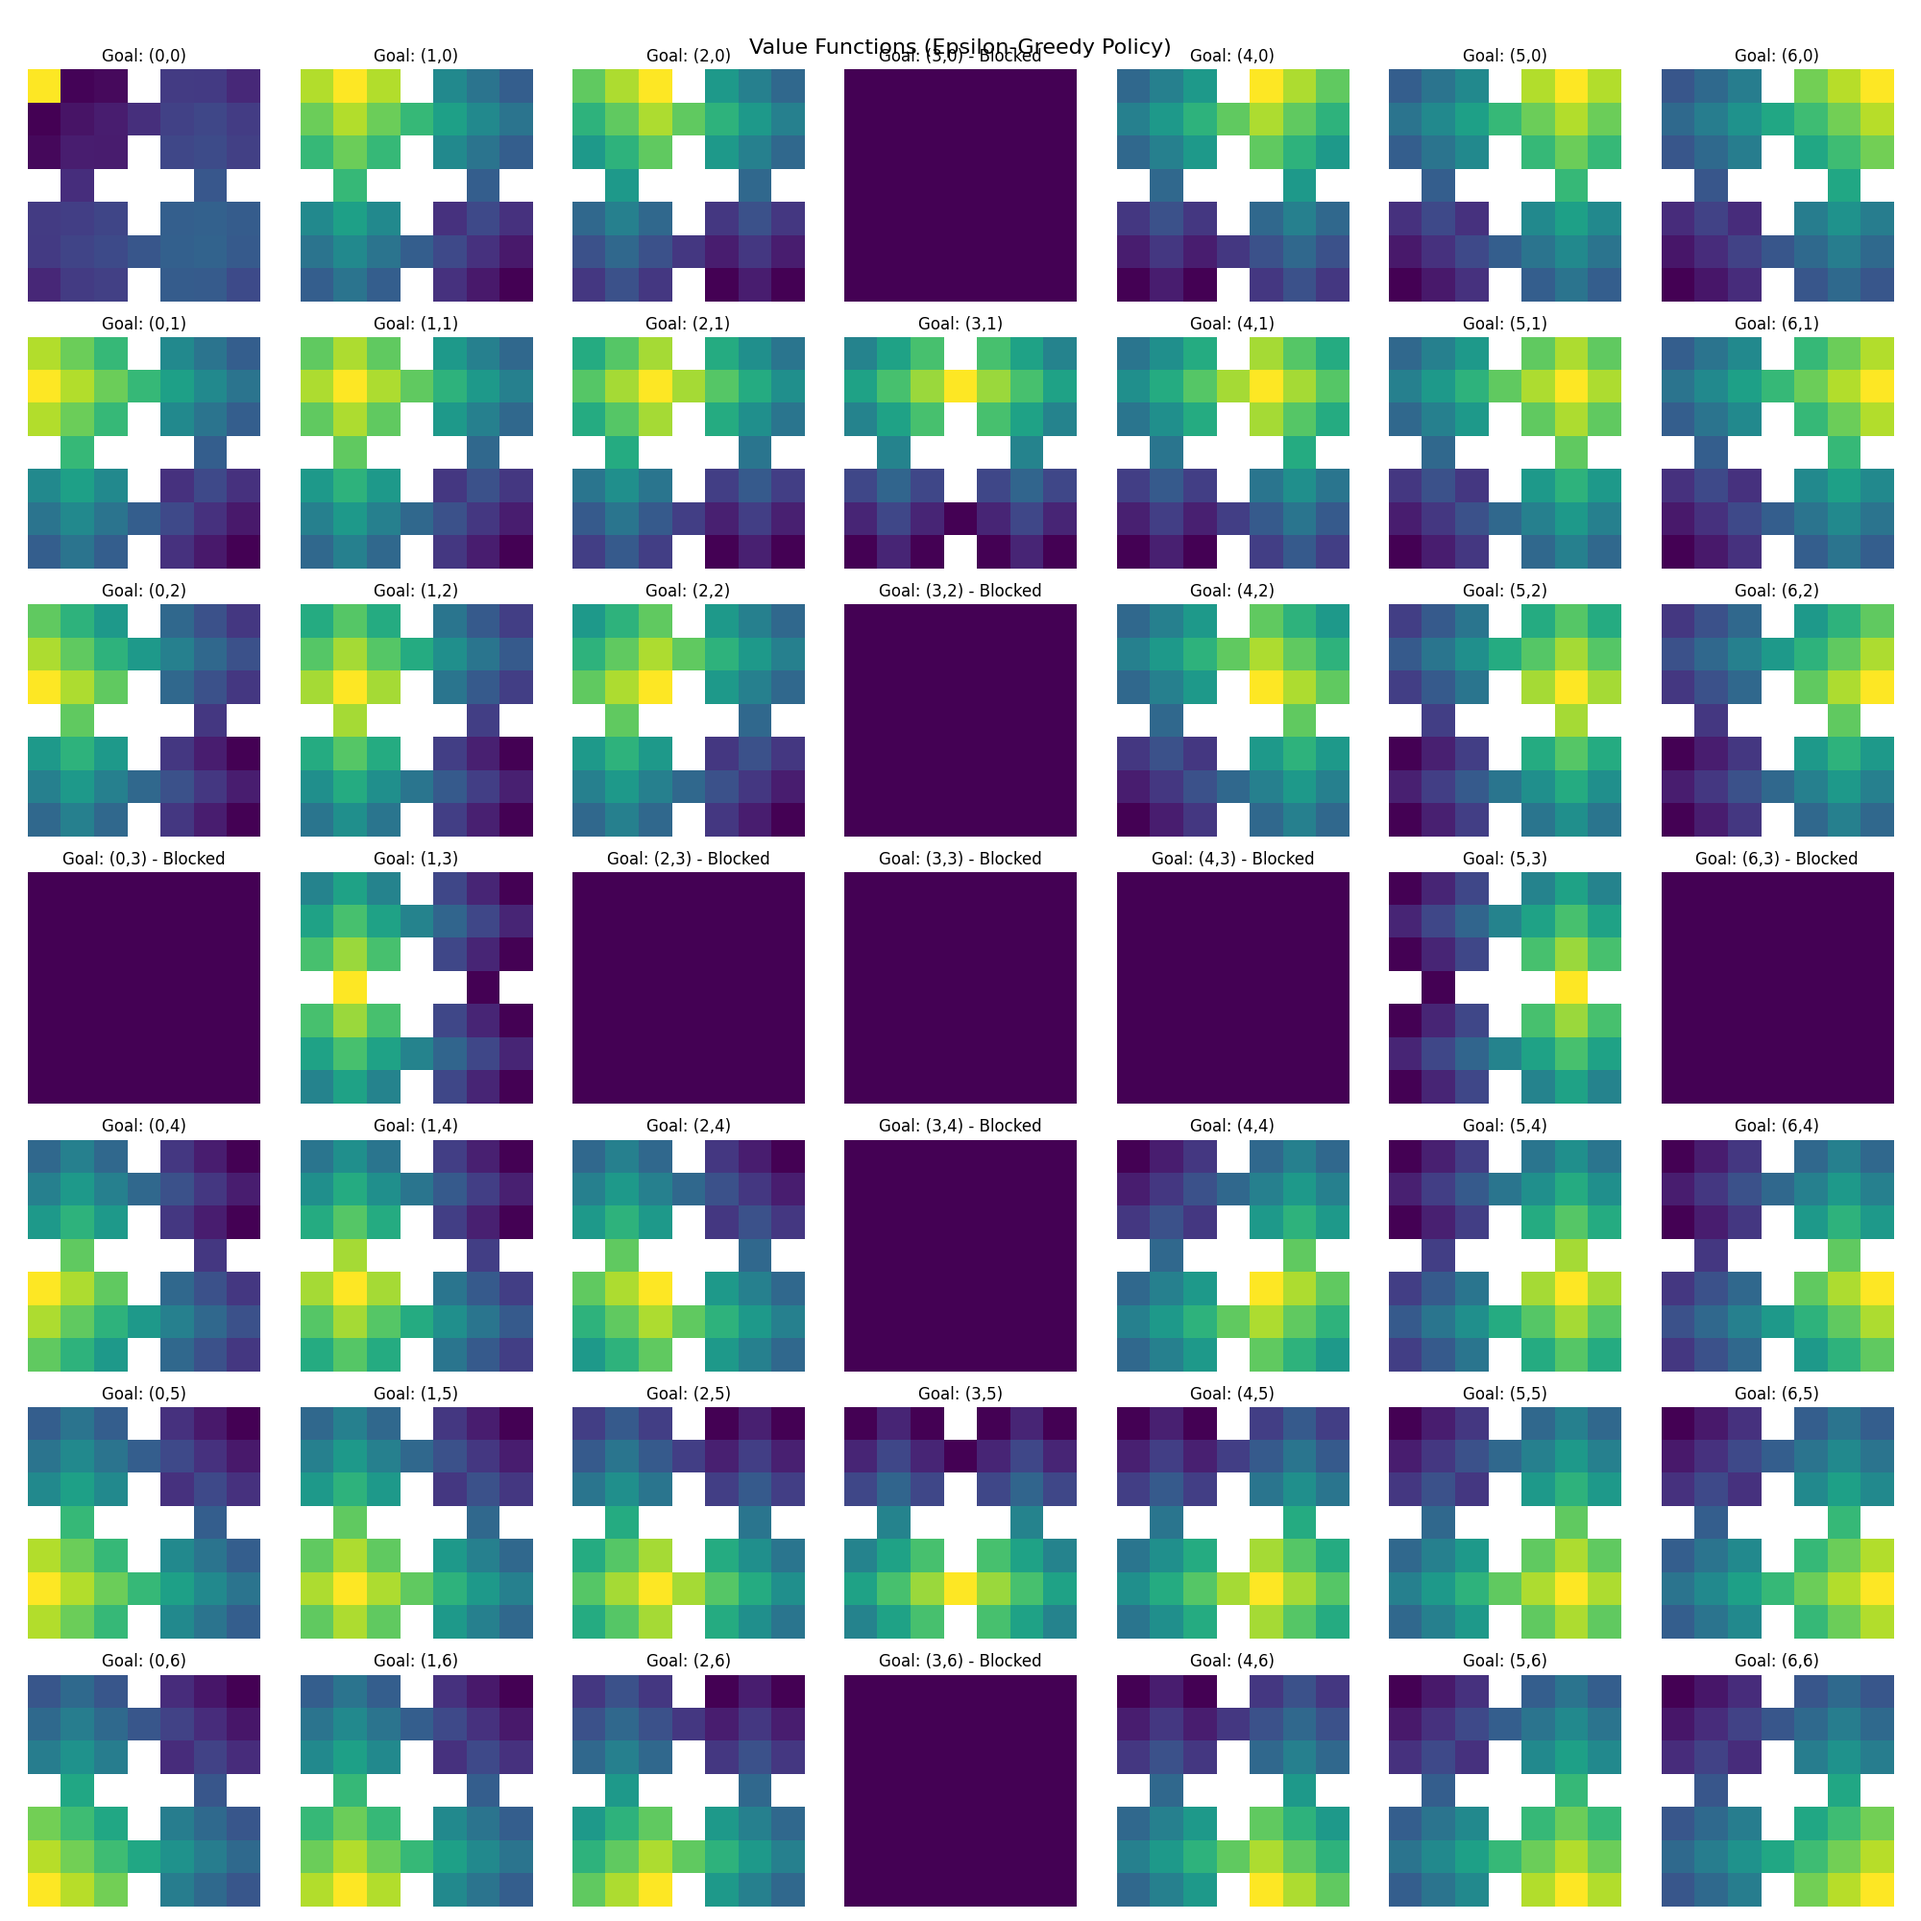
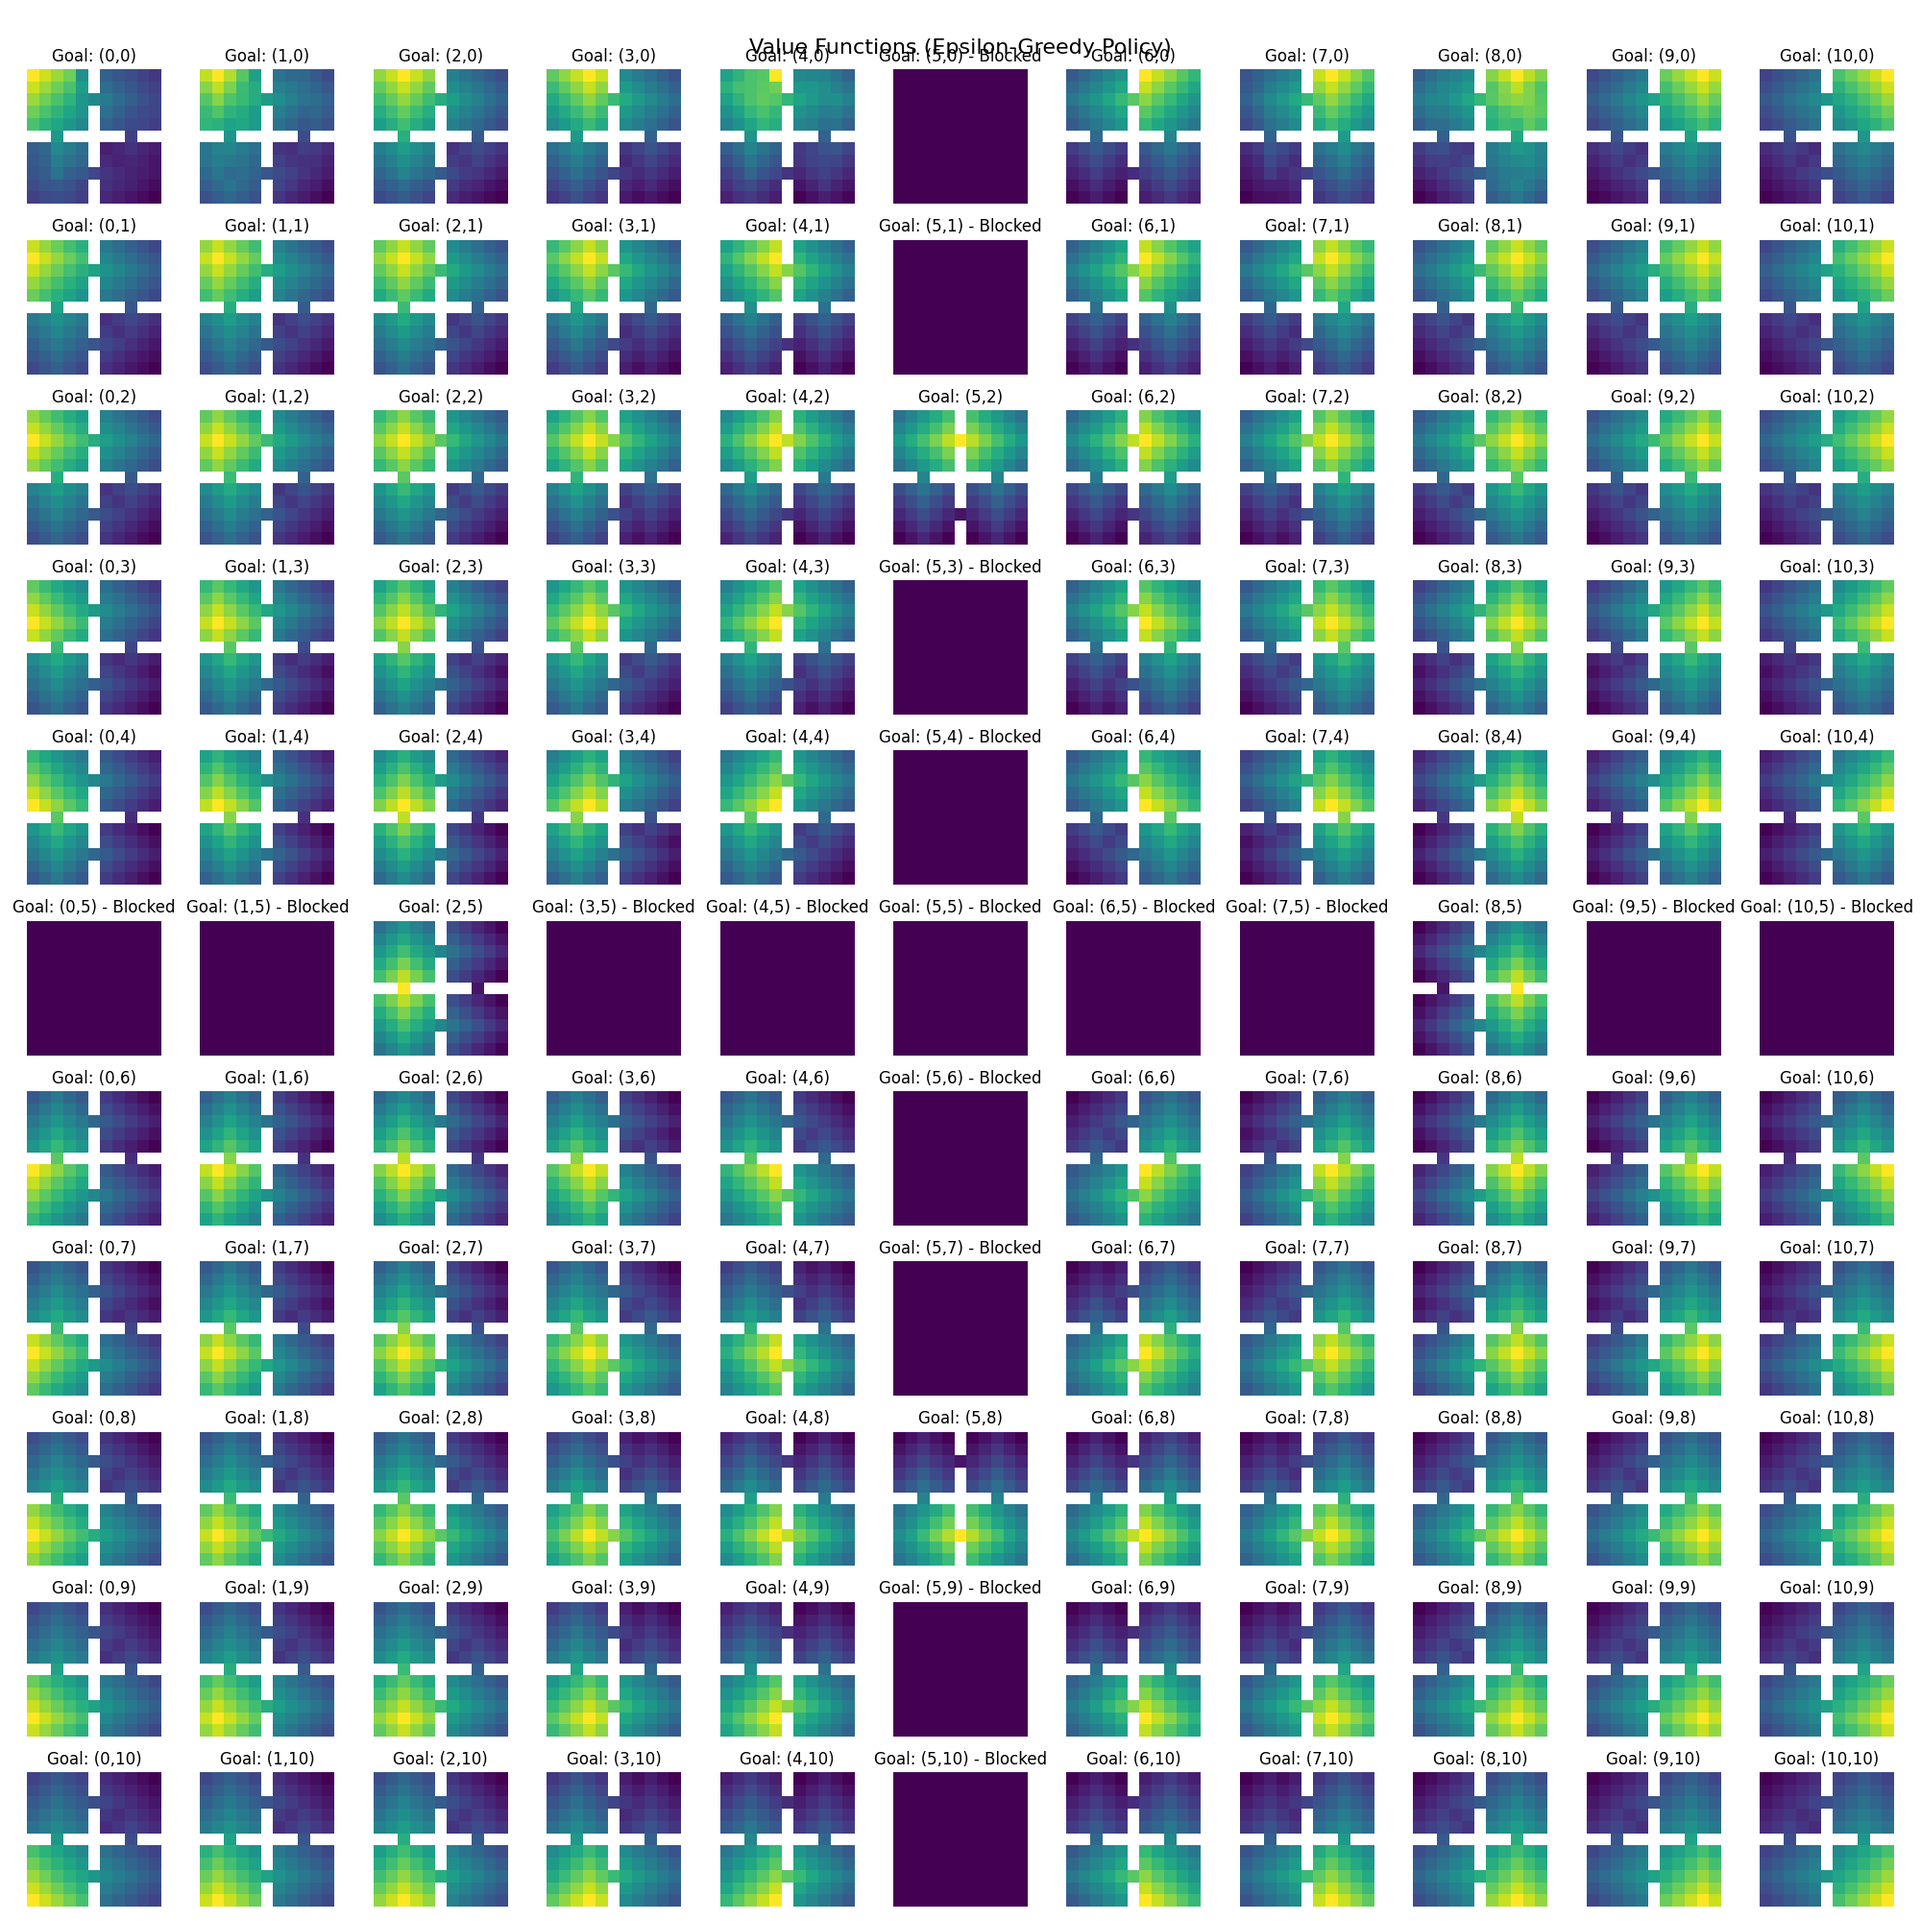
newest

diff --git a/SRGoalSlice.py b/SRGoalSlice.py
@@ -11,7 +11,7 @@ from sklearn.decomposition import PCA #For grid cell plotting
 cmap = plt.cm.viridis
 cmap.set_bad(color='white')
 
-grid_size = 7
+grid_size = 11
 pattern = "four_rooms"
 env = SimpleGrid(grid_size, block_pattern=pattern, obs_mode="index")
 env.reset(agent_pos=[0, 0], goal_pos=[0, grid_size - 1])
@@ -21,7 +21,7 @@ print("Four Rooms Arena: ")
 
 # ------------------ Recording Functions --------------------------------
 def record_agent_trajectories(env, agent, episodes, episode_length, epsilon, filename):
-    fig, ax = plt.subplots(figsize=(7, 7))
+    fig, ax = plt.subplots(figsize=(grid_size, grid_size))
     trajectories = []
 
     for episode in range(episodes):
@@ -171,9 +171,8 @@ def plot_wvf(agent, env):
 # Plotting the reward matrix slices for easy viewing
 def plot_goal_matrices(goals, env):
     state_size = goals.shape[0]
-    grid_size = 7  # Since we know it's a 7x7 grid
 
-    plt.figure(figsize=(20, 20))
+    plt.figure(figsize=(30, 30))
     
     for slice_index in range(state_size):
         ax = plt.subplot(grid_size, grid_size, slice_index + 1)
@@ -240,7 +239,7 @@ class TabularSuccessorAgent(object):
         self.learning_rate = learning_rate
         self.gamma = gamma
         self.goal_size = goal_size
-        self.goals = np.zeros((state_size, 7, 7), dtype=int)
+        self.goals = np.zeros((state_size, grid_size, grid_size), dtype=int)
     
     # Computes action values by combining the SR with the current reward prediction (w) or a specified goal
     def Q_estimates(self, state, goal=None):
@@ -264,10 +263,10 @@ class TabularSuccessorAgent(object):
     # TODO     # Not sure why passing in a goal size doesnt work 
     # ----------------------------------------------------------------
     def generate_goal_matrices(self, state_size, goal_size):
-        goal_size = 40
-        self.goals = np.zeros((state_size, 7, 7), dtype=int)
+        goal_size = 104 # this is 40 for grid size = 7 and 104 for grid_size = 11
+        self.goals = np.zeros((state_size, grid_size, grid_size), dtype=int)
         
-        available_positions = [(x, y) for x in range(7) for y in range(7) if [x, y] not in env.blocks]
+        available_positions = [(x, y) for x in range(grid_size) for y in range(grid_size) if [x, y] not in env.blocks]
         for slice_index in range(min(state_size, goal_size)):
             if slice_index < len(available_positions):
                 x, y = available_positions[slice_index]
@@ -314,12 +313,16 @@ class TabularSuccessorAgent(object):
 # --------------------Supporting Functions---------
 
 # assists with finding positions for random agent initialization.
+# to ensure uniform random distribution, first find the valid states, then randomly choose from them
 def random_valid_position(env):
-    while True:
-        x = np.random.randint(0, env.grid_size)
-        y = np.random.randint(0, env.grid_size)
-        if [x, y] not in env.blocks:
-            return [x, y]
+    # Create a list of all valid positions
+    valid_positions = [
+        [x, y] for x in range(env.grid_size) for y in range(env.grid_size)
+        if [x, y] not in env.blocks
+    ]
+    
+    # Randomly select a position from the list of valid positions
+    return valid_positions[np.random.randint(len(valid_positions))]
 
 # assists with choosing a random goal slice for the agent to learn off of
 def get_goal_sequence(total_episodes, goal_size):
@@ -344,13 +347,13 @@ def get_goal_sequence(total_episodes, goal_size):
 
 # --------------------Training and Testing Parameters --------------------------------
 # parameters for training
-train_episode_length = 100
-test_episode_length = 100
-episodes = 100000
+train_episode_length = 40
+test_episode_length = 40
+episodes = 500000
 gamma = 0.95
 lr = 5e-2
 
-initial_train_epsilon = 0.9
+initial_train_epsilon = 0.6
 epsilon_decay = 0.995
 
 test_epsilon = 0.01
@@ -384,72 +387,72 @@ random_policy_test_experiences = []
 random_policy_test_lengths = []
 random_policy_td_errors = []
 
-# Training loop for random policy
-for goal_index in goals_with_targets:
-    goal_episodes = episodes_per_goal + (1 if remaining_episodes > 0 else 0)
-    remaining_episodes = max(0, remaining_episodes - 1)
+# # Training loop for random policy
+# for goal_index in goals_with_targets:
+#     goal_episodes = episodes_per_goal + (1 if remaining_episodes > 0 else 0)
+#     remaining_episodes = max(0, remaining_episodes - 1)
     
-    print(f"\nTraining on goal slice {goal_index} with random policy for {goal_episodes} episodes")
+#     print(f"\nTraining on goal slice {goal_index} with random policy for {goal_episodes} episodes")
     
-    epsilon = 1  # Set epsilon to 1 for random policy
+#     epsilon = 1  # Set epsilon to 1 for random policy
     
-    for episode in tqdm(range(goal_episodes), desc=f"Training goal slice {goal_index} (Random Policy)"):
-        # training phase
-        # agent_start = random_valid_position(env)
-        agent_start = [0,0]
-        goal_pos = env.state_to_point(np.where(agent.goals[goal_index] == 1)[0][0])
+#     for episode in tqdm(range(goal_episodes), desc=f"Training goal slice {goal_index} (Random Policy)"):
+#         # training phase
+#         # agent_start = random_valid_position(env)
+#         agent_start = [0,0]
+#         goal_pos = env.state_to_point(np.where(agent.goals[goal_index] == 1)[0][0])
 
-        env.reset(agent_pos=agent_start, goal_pos=goal_pos)
-        state = env.observation
-        episodic_error = []
+#         env.reset(agent_pos=agent_start, goal_pos=goal_pos)
+#         state = env.observation
+#         episodic_error = []
 
-        for j in range(train_episode_length):
-            action = agent.sample_action(state, epsilon=epsilon)
-            reward = env.step(action)
-            next_state = env.observation
-            done = env.done
-            random_policy_experiences.append([state, action, next_state, reward])
-            experience = [state, action, next_state, reward, done]
+#         for j in range(train_episode_length):
+#             action = agent.sample_action(state, epsilon=epsilon)
+#             reward = env.step(action)
+#             next_state = env.observation
+#             done = env.done
+#             random_policy_experiences.append([state, action, next_state, reward])
+#             experience = [state, action, next_state, reward, done]
             
-            td_sr = agent.update_sr(experience)
-            td_w = agent.update_w(experience)
-            episodic_error.append(np.mean(np.abs(td_sr)))
+#             td_sr = agent.update_sr(experience)
+#             td_w = agent.update_w(experience)
+#             episodic_error.append(np.mean(np.abs(td_sr)))
             
-            state = next_state
-            if done:
-                break
+#             state = next_state
+#             if done:
+#                 break
         
-        random_policy_td_errors.append(np.mean(episodic_error))
+#         random_policy_td_errors.append(np.mean(episodic_error))
         
-        # Test phase
-        agent_start = random_valid_position(env)
-        env.reset(agent_pos=agent_start, goal_pos=goal_pos)
-        state = env.observation
-        for j in range(test_episode_length):
-            action = agent.sample_action(state, epsilon=test_epsilon)
-            reward = env.step(action)
-            state_next = env.observation
-            random_policy_test_experiences.append([state, action, state_next, reward])
-            state = state_next
-            if env.done:
-                break
-        random_policy_test_lengths.append(j)
+#         # Test phase
+#         agent_start = random_valid_position(env)
+#         env.reset(agent_pos=agent_start, goal_pos=goal_pos)
+#         state = env.observation
+#         for j in range(test_episode_length):
+#             action = agent.sample_action(state, epsilon=test_epsilon)
+#             reward = env.step(action)
+#             state_next = env.observation
+#             random_policy_test_experiences.append([state, action, state_next, reward])
+#             state = state_next
+#             if env.done:
+#                 break
+#         random_policy_test_lengths.append(j)
 
-    print("\nRandom policy training completed.")
-
-
-# After random policy training
-random_policy_agent = agent
+#     print("\nRandom policy training completed.")
 
 
-# Plot grid cells for random policy agent
-plot_grid_cells(random_policy_agent, env, "Grid Cells (Random Policy)")
+# # After random policy training
+# random_policy_agent = agent
 
-# Plot value functions for random policy agent
-plot_value_functions(random_policy_agent, env, "Value Functions (Random Policy)")
 
-# Plot raw SR matrix for random policy
-plot_raw_sr(random_policy_agent.M, env, "Random SR Matrix")
+# # Plot grid cells for random policy agent
+# plot_grid_cells(random_policy_agent, env, "Grid Cells (Random Policy)")
+
+# # Plot value functions for random policy agent
+# plot_value_functions(random_policy_agent, env, "Value Functions (Random Policy)")
+
+# # Plot raw SR matrix for random policy
+# plot_raw_sr(random_policy_agent.M, env, "Random SR Matrix")
 
 
 # --------------------Epsilon greedy Training Loop --------------------
@@ -496,8 +499,8 @@ for goal_index in goals_with_targets:
     for episode in tqdm(range(goal_episodes), desc=f"Training goal slice {goal_index}"):
         # training phase
 
-        # agent_start = random_valid_position(env)
-        agent_start = [0,0]
+        agent_start = random_valid_position(env)
+        # agent_start = [0,0]
         goal_pos = env.state_to_point(np.where(agent.goals[goal_index] == 1)[0][0])
 
         env.reset(agent_pos=agent_start, goal_pos=goal_pos)

diff --git a/gridworld.py b/gridworld.py
@@ -177,7 +177,7 @@ class SimpleGrid(object):
         
         if self.agent_pos == self.goal_pos:
             self.done = True
-            return 10.0
+            return 1.0
         elif list(self.agent_pos) in self.blocks:
             self.agent_pos = [max(0, min(self.grid_size-1, self.agent_pos[i] - move_array[i])) for i in range(2)]
             return -0.1  # Small penalty for hitting a wall
